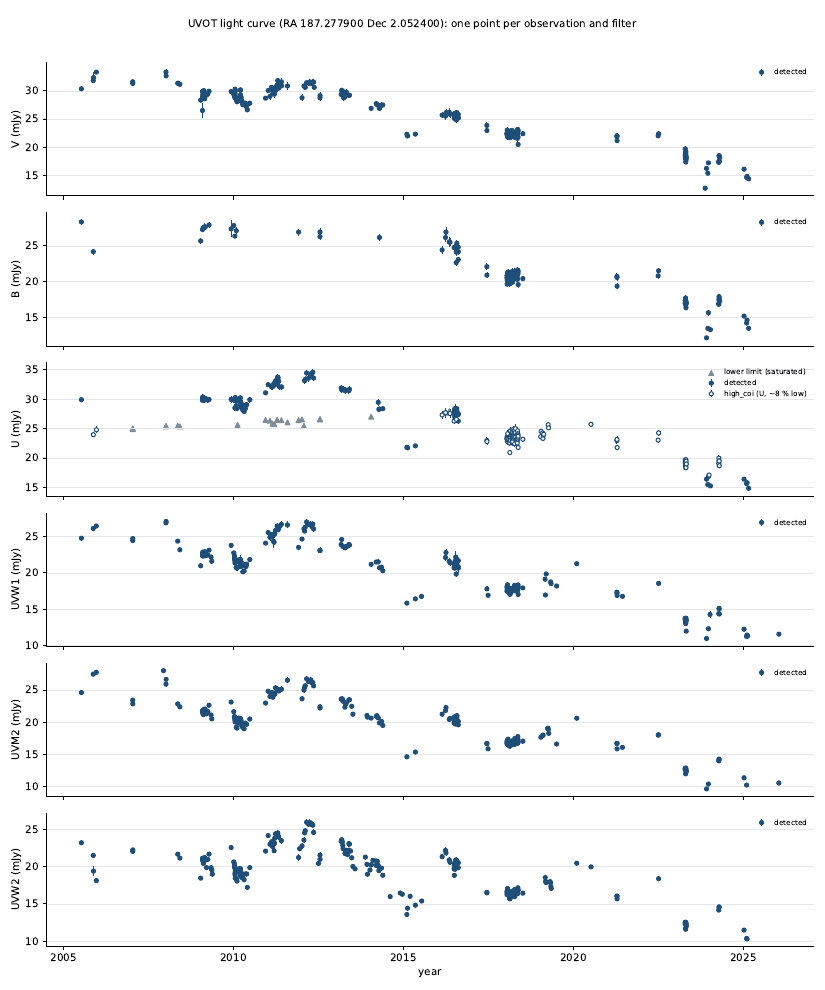
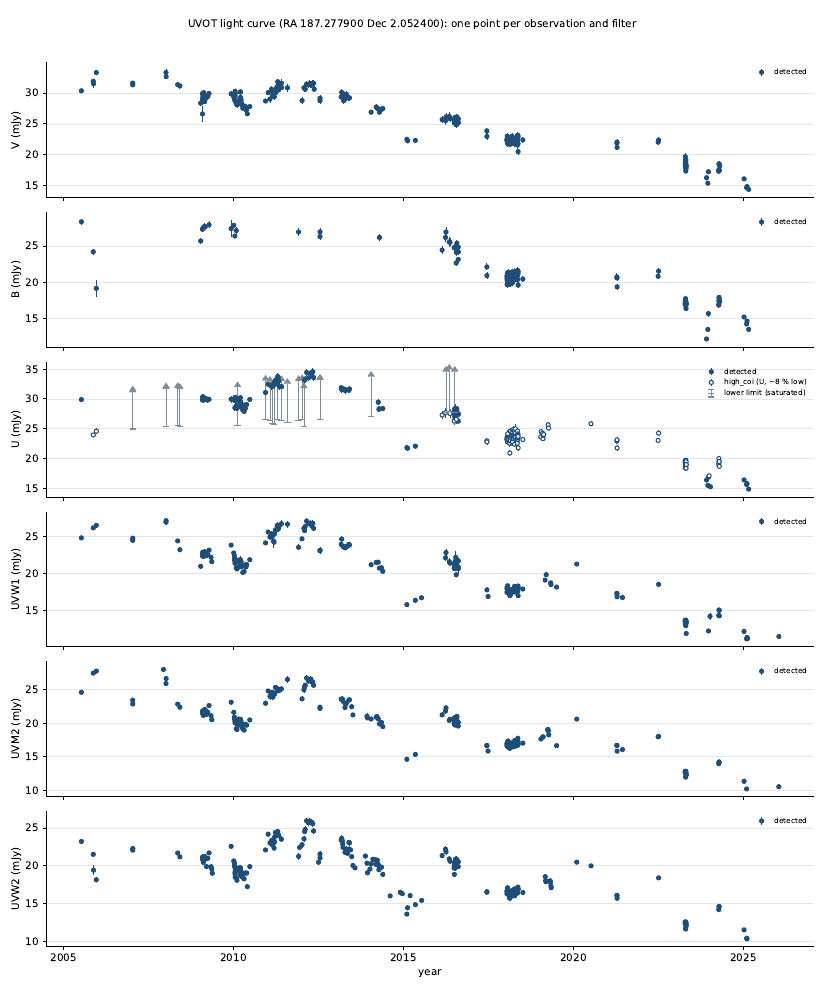
Docs for PR2: Step 7 weights, detection, limits; validation notes
Claude-Session: https://claude.ai/code/session_01FxWQJRR7uhTSsSiRU3XCf2

diff --git a/docs/07-lightcurve.md b/docs/07-lightcurve.md
@@ -15,17 +15,43 @@ swift_uvot_lightcurve.py
 | Flag | Purpose |
 | ---- | ------- |
 | `--outdir` | Steps 3–6's output folder (default `UVOT_output`) |
-| `--floor` | Systematic error per exposure, as a fraction of its rate (default 0.015) |
-| `--nsigma` | Detection threshold and upper-limit significance (default 3) |
+| `--floor` | Systematic error per exposure, as a fraction of the combined rate (default 0.015) |
+| `--nsigma` | Detection threshold in Gaussian σ; also sets the upper-limit confidence (3 → 99.87 %) and the sensitivity (default 3; 1–8) |
+| `--bkg-sys` | Additive background systematic, as a fraction of the background in the aperture: one number for all filters, or e.g. `V=0.01,UVM2=0.05`; `0` switches it off (default: measured per filter, below) |
 
 ## How it works
 
 **Combining.** The included exposures of one observation and filter are
-averaged with inverse-variance weights. Each exposure's error is its
-statistical error plus a systematic floor of 1.5 % of its rate, added in
-quadrature. The floor comes from the data: included exposures of one 3C 273
-observation scatter more than their statistical errors allow, and the
-fraction that brings the reduced χ² to 1 is:
+averaged with weights. The obvious weight, 1/error², has a catch for faint
+sources: each exposure's error comes from its own counts, so an exposure
+that happened to catch fewer counts gets a smaller error and a larger
+weight, and the mean comes out low (by about one count per exposure;
+Mighell 1999). On blank sky that is −0.07 to −0.21σ per exposure, and up to
+−1σ for many short UV exposures.
+
+So the weights come from the counts each exposure is *expected* to have if
+the source shines at the combined rate R:
+
+- the expected counts in the 5″ circle are E = R·T/K + B, with T the
+  exposure time, K the correction from raw to corrected rate (coincidence
+  loss, sensitivity loss over time, large-scale sensitivity), and B the
+  background expected there from the whole observation's background;
+- `uvotsource`'s error is rescaled to these counts:
+  σ² = e²·(E + V)/(max(N, 1) + V) + (f·R)², with e its error, N the
+  counts it actually got, V the variance of the background subtracted and
+  f the floor;
+- R is iterated from the exposure-weighted mean (3C 273 converges in at
+  most 4 steps). If it ever does not converge, the exposure-weighted mean
+  is used and the reason says so.
+
+For bright sources E ≈ N and the weights are `uvotsource`'s own; 3C 273's
+points move by a median 0.000σ.
+
+The floor f (1.5 %) is a fraction of the *combined* rate. Before PR2 it was
+1.5 % of each exposure's own rate, which again favours exposures that read
+low. It comes from the data: included exposures of one 3C 273 observation
+scatter more than their statistical errors allow, and the fraction that
+brings the reduced χ² to 1 is:
 
 | V | B | U | UVW1 | UVM2 | UVW2 |
 | - | - | - | ---- | ---- | ---- |
@@ -35,17 +61,60 @@ The U value leaves out the `high_coi` exposures. Mixed with windowed U they
 raise it to 3.8 %, because they read about 8 % low. So within an observation
 the `high_coi` U exposures are used only when there is no other U exposure.
 
+**Background systematic.** The floor scales with the source, so it does
+nothing for a faint one, whose error is dominated by the background. A
+background that is wrong by a fraction ε adds ε × (background in the 5″
+circle) to every exposure of an observation alike: it does not average
+down, so it is added once to the combined point's error. ε was measured on
+blank sky: 26 empty random positions in every included PKS 0537−286
+exposure, combined like a source; ε is what makes the scatter of those
+blank points match their errors:
+
+| V | B | U | UVW1 | UVM2 | UVW2 |
+| - | - | - | ---- | ---- | ---- |
+| 0 | 1.8 % | 1.8 % | 0 | 0 | 2.6 % |
+
+V, UVW1 and UVM2 need none. This was measured in one field; for a field
+with a much brighter or more structured background, raise it with
+`--bkg-sys`.
+
+**Detection.** A point is `detected` if background alone would give the
+summed counts of its exposures with a probability below that of a 3σ
+Gaussian fluctuation (0.135 %). The probability is the Poisson one,
+averaged over the uncertainty of the background (its statistical error
+and the systematic above); `det_sigma` gives it as Gaussian σ. For bright
+sources this is the same as rate/error ≥ 3. At low counts it is less
+conservative, and correct: with 10 background counts, 22 counts are a
+detection, where rate/error ≥ 3 needs 26. `snr` (rate/error) is still
+listed, and can be slightly below 3 for a detected point.
+
+**Upper limits.** For a point that is not detected, `rate_limit` is the
+Kraft, Burrows & Nousek (1991) upper limit at 99.87 % (3σ), computed from
+the summed counts and the background (with its uncertainty), divided by
+the summed T/K. The old limit, max(rate, 0) + 3σ, falls below the true flux
+0.4–2.2 % of the time instead of 0.135 % when the background in the
+aperture is 30 counts or less (single UV exposures here have 2–130). KBN
+keeps its 0.135 %. Near zero it is about 3.24σ above zero, and about 2σ
+above it for a negative net rate. The measured `rate` and `rate_err` stay in
+the table for every point.
+
+**Sensitivity.** `rate_sens` and `mag_sens` are the rate a source would
+need to be 3σ above the background alone: what many UVOT papers quote as
+a "limit" (`uvotsource`'s `MAG_LIM` is similar). It depends only on the
+background and exposure, not on what was measured, so it is listed for
+every point. It is not an upper limit on the flux.
+
 The point's time is the exposure-weighted mean of the exposures' midpoints.
 `mjd_start` and `mjd_stop` span the exposures used. With two or more
-exposures, `chi2_red` shows how well they agree; a point is flagged
-`scatter` if the χ² probability is below 0.001.
+exposures, `chi2_red` (from the same weights) shows how well they agree;
+a point is flagged `scatter` if the χ² probability is below 0.001.
 
 **Statuses.** Each observation and filter gets one:
 
 | Status | Meaning |
 | ------ | ------- |
-| `detected` | combined rate / error ≥ 3 |
-| `upper_limit` | below that; the magnitude and flux columns hold max(rate, 0) + 3σ |
+| `detected` | `det_sigma` ≥ 3 |
+| `upper_limit` | below that; the magnitude and flux columns hold `rate_limit` |
 | `lower_limit` | nothing included, but some exposures were excluded only for saturation; the highest capped rate, a lower limit on the true one |
 | `excluded` | exposures were measured, but none was included (the reason lists the rules) |
 | `not_covered` | no exposure had the source in its field |
@@ -53,7 +122,10 @@ exposures, `chi2_red` shows how well they agree; a point is flagged
 **Units.** Magnitudes and flux densities use `uvotsource`'s own conversion,
 read from Step 5's output tables: the Vega and AB zero points and the flux
 density per count/s in each filter. They are listed in the table header.
-`mag_err` is statistical plus the floor. `mag_sys` is the absolute
+A filter in which no exposure has a positive rate (a faint source in the
+UV) takes them from `uvotsource`'s limit columns instead, the same
+conversion.
+`mag_err` is statistical plus the floor and the background systematic. `mag_sys` is the absolute
 calibration (zero-point) error: 0.01 mag in V, 0.02 in B and U, 0.03 in
 the UV. It is not included in `mag_err`, because it shifts every point of
 a filter together.
@@ -77,8 +149,25 @@ For all of 3C 273:
 ![The UVOT light curve of 3C 273](img/07-lightcurve-3c273.png)
 
 *`uvot_lightcurve.pdf` for 3C 273: flux density against time, one panel per
-filter. Open circles are U points from `high_coi` exposures; grey triangles
-are saturated lower limits.*
+filter. Open circles are U points from `high_coi` exposures; grey arrows
+pointing up are saturated lower limits (upper limits point down).*
+
+For PKS 0537−286 (a faint blazar, V ≈ 19):
+
+```
+[summary] filter  detected  upper_limit  lower_limit  excluded  not_covered  high_coi  scatter
+          V             14            2            0         4            0         0        0
+          B             13            3            0         3            0         0        0
+          U             10           14            0         3            0         0        0
+          UVW1           0           14            0         3            0         0        0
+          UVM2           0           13            0         5            0         0        0
+          UVW2           0           15            0         3            0         0        0
+```
+
+![The UVOT light curve of PKS 0537-286](img/07-lightcurve-pks0537.png)
+
+*PKS 0537−286: detections in V, B and U; KBN upper limits (arrows down from
+the limit) everywhere else.*
 
 ## What to look for
 
@@ -95,8 +184,15 @@ are saturated lower limits.*
   docs show the bias.
 - **`scatter`** (3): the exposures of one observation disagree. The U point
   of 00089029001 contains the `discrepant` exposure from Step 6.
-- **Non-detections:** none for 3C 273. A faint target (planned: PKS 0537−286)
-  is the test for upper limits.
+- **Non-detections:** none for 3C 273. For PKS 0537−286, every UV point
+  is an upper limit, as expected for a red blazar at V ≈ 19.
+- **What PR2 changed** (against the previous inverse-variance mean):
+  3C 273's points moved by a median 0.000σ; the 11 that moved by more than
+  0.1σ (at most 0.9σ, 0.45 %) all moved up and all have exposures that
+  disagree (χ²_red 1.7–12.7), where the old per-exposure floor favoured the
+  low ones. PKS 0537−286's points rose by up to 1.3σ (UV), as removing a
+  downward bias should; three points changed status (two detections at
+  S/N 3.2 and 4.9 became limits, one limit became a detection).
 
 ## Inputs and outputs
 
@@ -117,7 +213,11 @@ UVOT_output/
 | `date_mid`, `mjd_mid`, `mjd_start`, `mjd_stop` | Exposure-weighted mean time (UTC) and the span of the exposures used |
 | `status` | See above |
 | `n_used`, `n_total`, `exposure` | Exposures used, exposures in the observation and filter, exposure time used (s) |
-| `rate`, `rate_err`, `snr`, `chi2_red` | Combined corrected rate (counts/s), its error (floor included), S/N, reduced χ² |
+| `counts`, `bkg_counts` | Summed raw counts in the 5″ circles and the background expected in them |
+| `det_sigma` | Poisson significance of `counts` over `bkg_counts`, as Gaussian σ (`>37` beyond double precision) |
+| `rate`, `rate_err`, `snr`, `chi2_red` | Combined corrected rate (counts/s), its error (floor and background systematic included), rate/error, reduced χ² |
+| `rate_limit` | Upper limit (KBN, 99.87 %) for points that are not detected |
+| `rate_sens`, `mag_sens` | 3σ sensitivity: the rate (Vega magnitude) needed to be 3σ above the background alone |
 | `mag`, `mag_err`, `ab_mag`, `ab_mag_err`, `mag_sys` | Vega and AB magnitudes; for an upper or lower limit the limit itself |
 | `flux_aa`, `flux_aa_err`, `flux_mjy`, `flux_mjy_err` | Flux density (erg s⁻¹ cm⁻² Å⁻¹; mJy) |
 | `flags`, `reason` | Flags carried from the exposures; why a point is a limit or excluded |
@@ -127,6 +227,12 @@ UVOT_output/
 ```bash
 # A larger systematic floor
 swift_uvot_lightcurve.py --floor 0.02
+
+# A 5-sigma detection threshold and 99.99997 % limits
+swift_uvot_lightcurve.py --nsigma 5
+
+# A larger background systematic in the UV only
+swift_uvot_lightcurve.py --bkg-sys UVW1=0.03,UVM2=0.03,UVW2=0.04
 
 # The detected UVW1 points
 awk '$2 == "UVW1" && $7 == "detected"' UVOT_output/uvot_lightcurve.txt | less -S
@@ -146,6 +252,16 @@ awk '$2 == "UVW1" && $7 == "detected"' UVOT_output/uvot_lightcurve.txt | less -S
 
 4. **`mag_sys` is not in `mag_err`.** Add it when comparing with other
    instruments, not when comparing UVOT points of one filter.
+
+5. **An upper limit is not the sensitivity.** Quote `rate_limit` (or
+   `mag`) for a non-detection; `mag_sens` says how faint a source could
+   have been detected, whatever was measured. Papers mix the two.
+
+6. **Unaspected exposures can miss a faint source** (flag `no_aspcorr` in
+   Step 6): without aspect correction the pointing can be off by more than
+   5″. A bright source is re-centred in Step 4, a faint one cannot be. In
+   PKS 0537−286's 00035240001 every field star reads about zero in its four
+   unaspected exposures. A field-star check is planned.
 
 ## Notes
 

diff --git a/doc_notes.md b/doc_notes.md
@@ -412,3 +412,48 @@ Logged during **PR1a** (Step 4 background for faint targets; branch
   than the 5″ aperture — and Step 6 includes them with the flag only.
   PKS 0537−286 reads ~0 there too. A bright target re-centres itself; a
   faint one cannot. The field-star check would catch these.
+
+Logged during **PR2** (Step 7 combining, detection and limits; branch
+`pr2-step7-combining`; validation scripts in `_dev_internal/pr2_validation/`).
+
+- **ε corrected.** PR1a's ε (V 1.1 … UVM2 9.0 %) was measured on every
+  exposure Step 4 processed, including those Step 6 excludes (LOW patches,
+  jitter), and with uvotsource's per-exposure errors. Re-measured on the
+  included exposures only, through the new combination: V 0, B 1.8 %,
+  U 1.8 %, UVW1 0, UVM2 0, UVW2 2.6 % (the larger of the std- and
+  MAD-based values; 26 empty positions; per filter 337–623 points). The
+  UV errors were already slightly large (pull std 0.89–0.94 at ε = 0).
+- **ε scales with what?** Splitting the blank points into background
+  terciles gives no clean answer (neither a fixed fraction nor a fixed
+  rate). One observation shows the cost of a single global value:
+  00030816012 B has 8,400 background counts in the aperture (a high-
+  background 2008 visit); its blank positions scatter 1.33× their errors,
+  so the right ε there is ~1.1 %, and the global 1.8 % turns its S/N 4.9
+  detection into a 2.5σ limit (with ε 1.1 % it would be ~3.7σ). Idea for
+  later: an empirical per-observation background scatter from random
+  positions in the same exposures (costs ~30 uvotsource calls per
+  exposure).
+- **Blank sky through the new Step 7** (ε as above, floor 1.5 %): bias of
+  the combined points +0.03 (V) … −0.07σ (UVM2); false detections 0 in
+  V/B/U/UVM2, 1 each in UVW1 and UVW2 (0.26–0.28 %, n ≈ 360–390; expect
+  0.135 %).
+- **3C 273 vs PR1a:** median shift 0.000σ, 95 % within 0.044σ; the 11
+  groups moving more than 0.1σ are exactly the cross-check's pre-listed
+  ones (00089029001 U +0.90σ, 00050900026 UVM2 +0.44σ, 00091742009 UVW2
+  +0.44σ, …), all upward, all with χ²_red 1.7–12.7. Errors unchanged
+  (median ratio 1.000). Weights converge in ≤ 4 iterations.
+- **PKS 0537−286 vs PR1a:** 25 of 26 moves > 0.1σ are upward (UV up to
+  +1.3σ). Status changes: 00030816012 B and 00036783002 U detected →
+  limit; 00036783011 U limit → detected (det_sigma 3.2). No UV detection.
+- **Known stars (E6) through the new Step 7:** combined-point bias −0.01
+  to −0.09σ (old −0.10 to −0.24σ); no upper limit below a star's truth
+  (old: 3); UVM2 detections 69 → 86, UVW1 139 → 147, UVW2 119 → 136.
+- **Reference values in the smoke test:** KBN for B = 10, N = 9.6/10/10.4
+  → 14.07/14.52/14.98 (the cross-check's `kbn.py`); integer N checked
+  against direct integration of the posterior; B = 1e4, net 0 → 3.24σ.
+- **Faint Monte Carlo** (`mc_faint.py`, 40,000 groups per case, through
+  `combine()` itself; UVM2-, UVW1-, U-, V-like groups and single short
+  UVW2 exposures): bias −0.004 to +0.008σ (MC precision ±0.005σ; old
+  inverse-variance mean −0.05 to −1.07σ); false detections at S = 0
+  0.08–0.11 % (nominal 0.135 %); KBN limit below the truth in ≤ 0.143 %
+  of all groups (nominal 0.135 %; 57 events where 54 are expected).

diff --git a/README.md b/README.md
@@ -191,16 +191,21 @@ make_uvot_master_table.py [--outdir UVOT_output] [--sss-level LOW|MID|HIGH]
 
 ### `swift_uvot_lightcurve.py`
 
-Combines the included exposures into one point per observation and filter
-(inverse-variance mean with a 1.5 % systematic floor per exposure, measured
-from 3C 273), with a status each: detected, upper limit, lower limit (all
-saturated), excluded, not covered. Count rates, Vega and AB magnitudes and
-flux densities with `uvotsource`'s own conversion; flags carried from the
-exposures. Output: `UVOT_output/uvot_lightcurve.txt` and
+Combines the included exposures into one point per observation and filter,
+with weights from the counts each exposure is expected to have (unbiased for
+faint sources; the same as inverse-variance weights for bright ones), a 1.5 %
+floor on the combined rate (measured from 3C 273) and an additive background
+systematic per filter (measured on blank sky). Detection from the Poisson
+probability of the summed counts; upper limits by Kraft, Burrows & Nousek
+(99.87 %); a 3σ sensitivity column. Statuses: detected, upper limit, lower
+limit (all saturated), excluded, not covered. Count rates, Vega and AB
+magnitudes and flux densities with `uvotsource`'s own conversion; flags
+carried from the exposures. Output: `UVOT_output/uvot_lightcurve.txt` and
 `uvot_lightcurve.pdf`.
 
 ```
 swift_uvot_lightcurve.py [--outdir UVOT_output] [--floor 0.015] [--nsigma 3]
+                         [--bkg-sys FILTER=VALUE,...]
 ```
 
 ### `swift_uvot_runner.py`, `swift_uvot_env.py`, `swift_uvot_tables.py`

diff --git a/docs/index.md b/docs/index.md
@@ -18,7 +18,7 @@ It is the companion to the Swift XRT pipeline
 | [4. Positions and regions](04-positions.md) | Measure the source position, shape and concentration in each exposure; flag trailed and smeared images and sensitivity patches; write source and background regions; contact sheets (`swift_uvot_positions.py`, `swift_uvot_viewer.py`) |
 | [5. Photometry](05-photometry.md) | Run `uvotsource` on every exposure, keeping every number and flag; plot every exposure's rate against time, marked by what Step 6 will judge (`swift_uvot_photometry.py`) |
 | [6. Master table](06-master-table.md) | Apply the quality rules, calibrated on 3C 273, and your overrides; one row per exposure with the rules that excluded it (`make_uvot_master_table.py`) |
-| [7. Light curve](07-lightcurve.md) | Combine the included exposures into one point per observation and filter: detections, upper limits and saturated lower limits; magnitudes and flux densities; plot (`swift_uvot_lightcurve.py`) |
+| [7. Light curve](07-lightcurve.md) | Combine the included exposures into one point per observation and filter (weights from expected counts, background systematic): Poisson detection, KBN upper limits, sensitivity and saturated lower limits; magnitudes and flux densities; plot (`swift_uvot_lightcurve.py`) |
 
 A per-exposure light curve (for short-timescale variability) is a planned extension.
 
